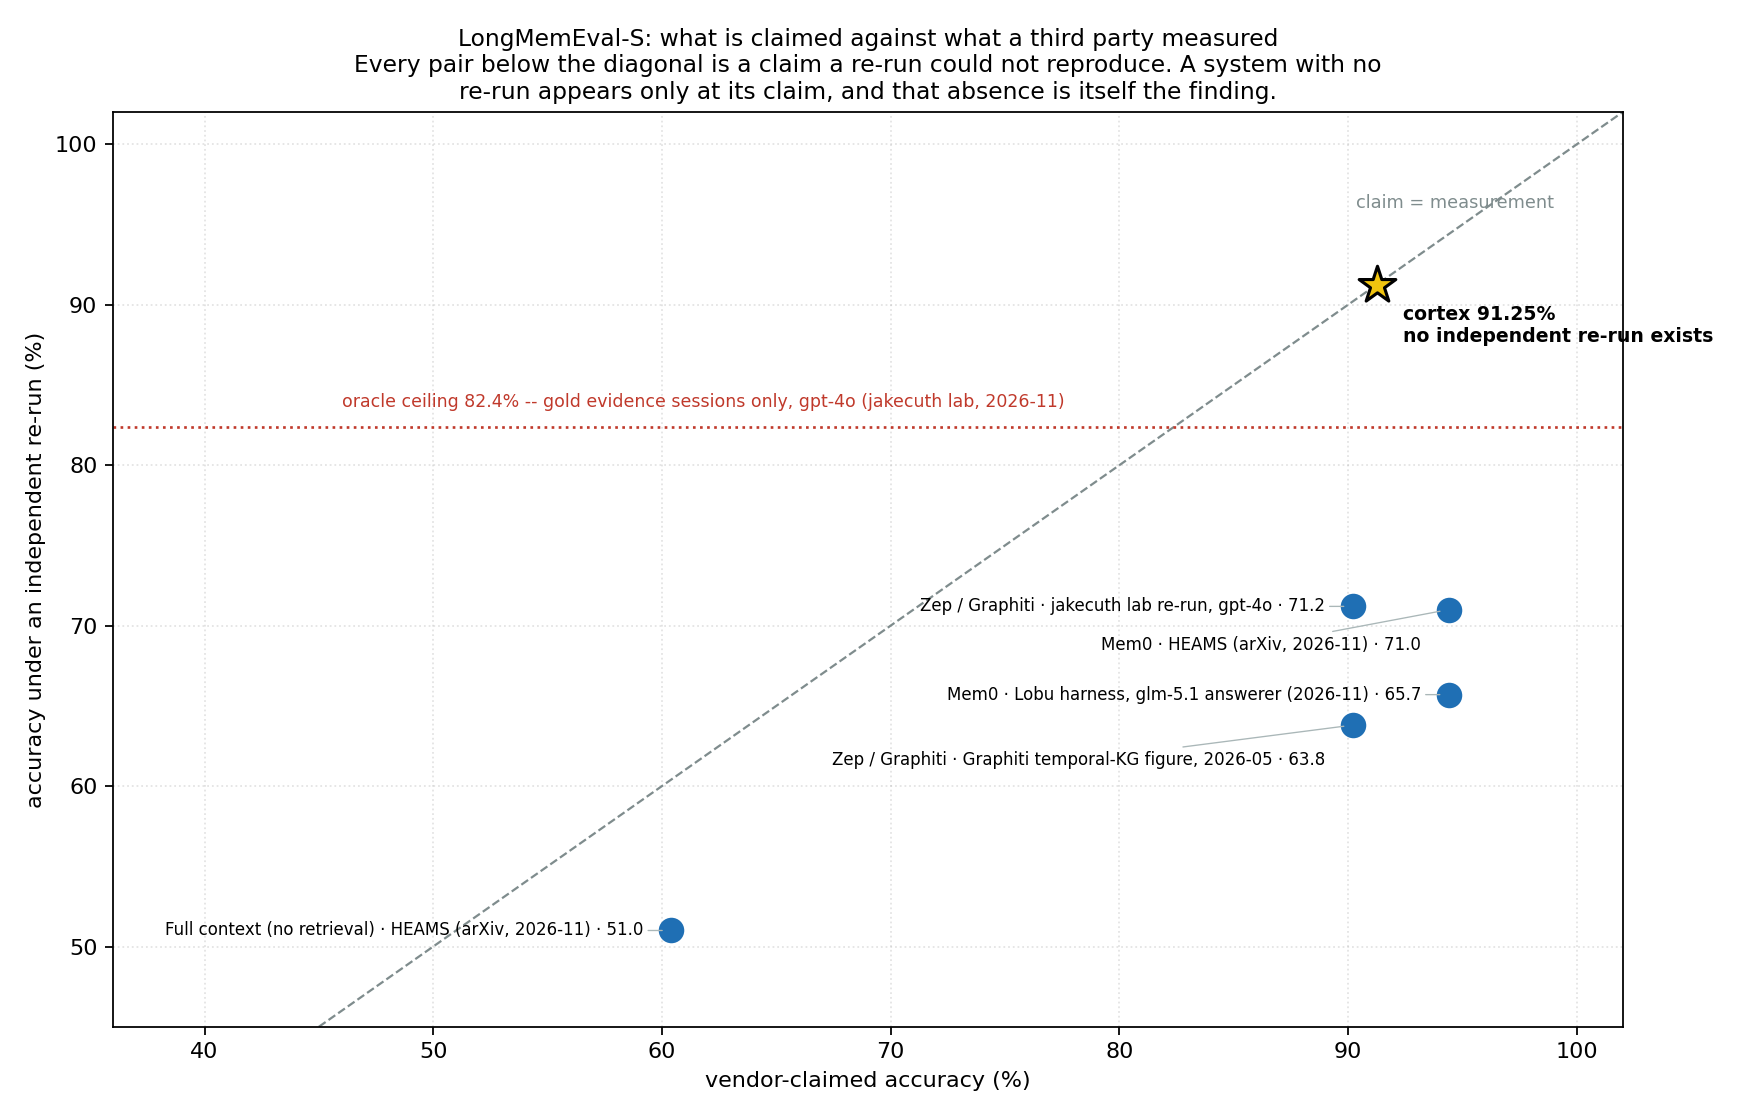
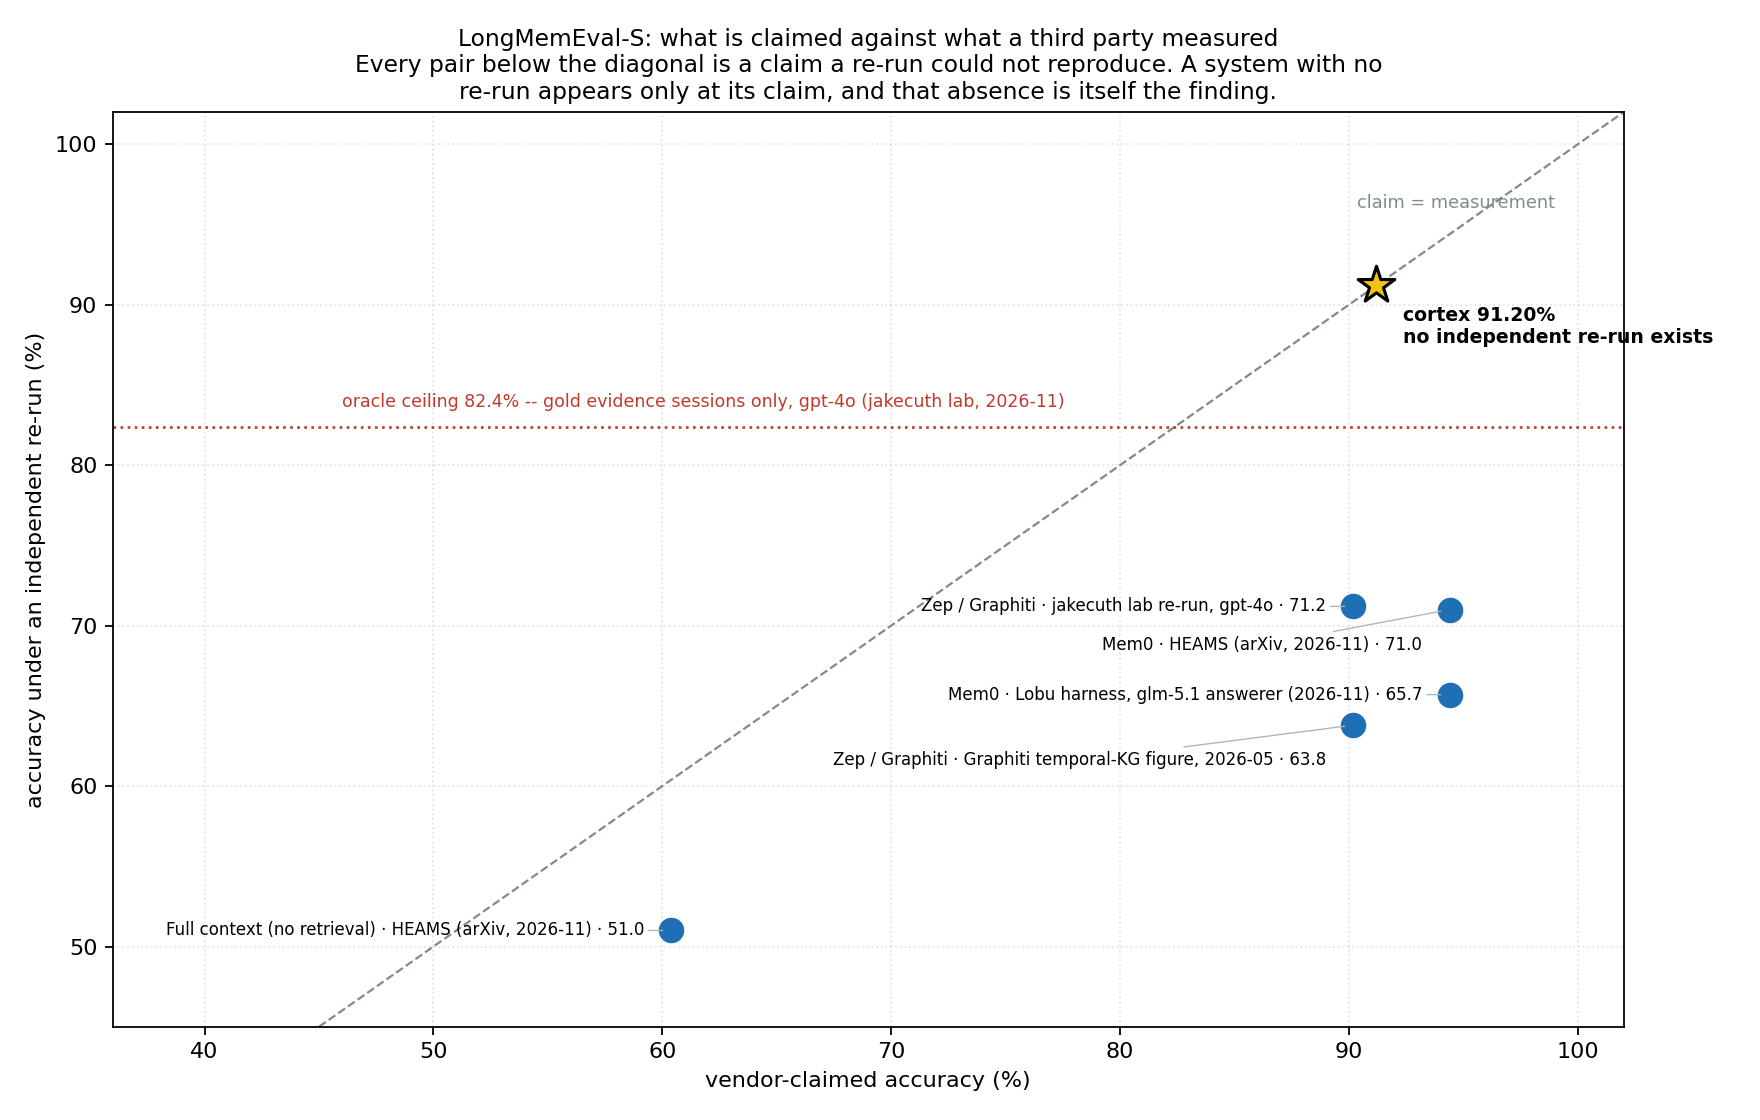
Plot the gap after the judge is held fixed, and correct the coordinate that used four passes
`landscape.json` carried cortex at 91.25%, which is `costEfficiency.accuracy` -- 1,825 correct verdicts
over 2,000 (four passes) -- beside competitor rows that are all one pass over 500 questions. The
coordinate is now `feature.metrics.correct` 456/500 = 91.2%, and the note says which field is which and
why the other one is not comparable. The Synap row gains the re-graded reading in its `source`: 479/500
= 95.80% under this repository's judge, +0.20 points against the published 95.60%, p = 1.0000.

Four figures are re-rendered from the corrected coordinates, and one is new. `fig-longmemeval-same-ruler.png`
puts the re-graded point beside the published one and, on the right, decomposes the gap by what each
reading holds fixed: the ruler reading moves the judge on fixed answers (+0.20, p = 1.0000) and the system
reading moves the answers under one judge (-4.60, p = 0.0018), while the old headline fixed neither and
could not attribute its own -4.40.

The renderer is committed for the reason `plot-landscape.py` states: a number whose derivation lives in a
session cannot be re-derived by its reader.

diff --git a/docs/figures/plot-same-ruler.py b/docs/figures/plot-same-ruler.py
@@ -1,0 +1,165 @@
+#!/usr/bin/env python3
+"""Draw the same-ruler reading: what is left of the gap after the judge is held fixed.
+
+## Why this figure exists beside `fig-longmemeval-accuracy-vs-cost.png`
+
+That figure plots every row on its own published coordinates, which is the right way to show the
+landscape and the wrong way to read one gap: two points on it can differ by their answer model, their
+judge, their corpus subset, or their cost basis, and the plot cannot say which.
+
+This one adds the row that was measured (§172): the competitor's own answers re-graded by this
+repository's judge. `ruler` holds the answers fixed and moves the judge (+0.20 points, p = 1.0000), so
+the instrument is ruled out; `system` holds the judge fixed and moves the answers (-4.60 points,
+p = 0.0018), and that is the reading the figure is about.
+
+Every coordinate comes from `landscape.json` -- the competitor rows are their own published figures,
+with a source per row -- and the two re-graded numbers come from `landscape.json`'s Synap `source`
+string, which carries the dispatch that produced them.
+
+Usage:
+    python3 docs/figures/plot-same-ruler.py
+"""
+
+from __future__ import annotations
+
+import json
+from pathlib import Path
+
+import matplotlib
+
+matplotlib.use('Agg')
+
+import matplotlib.pyplot as plt  # noqa: E402
+from matplotlib.lines import Line2D  # noqa: E402
+
+HERE = Path(__file__).resolve().parent
+LANDSCAPE = HERE / 'landscape.json'
+OUT = HERE / 'fig-longmemeval-same-ruler.png'
+
+#: The three readings from the pre-registered re-grade (section 10.2 of the pre-registration).
+READINGS = [
+    ('ruler\n(their answers,\ntwo judges)', 0.20, 1.0000, 'same answers'),
+    ('system\n(our judge,\ntwo answer sets)', -4.60, 0.0018, 'same judge'),
+    ('reference\n(the old headline)', -4.40, 0.0026, 'neither'),
+]
+
+TYPE_COLOUR = {'open-source': '#1f77b4', 'closed-cloud': '#d62728', 'closed': '#d62728'}
+
+
+def main() -> int:
+    landscape = json.loads(LANDSCAPE.read_text())
+    rows = [row for row in landscape['overall'] if row.get('tokensPerQuery')]
+
+    fig, (left, right) = plt.subplots(
+        1, 2, figsize=(15.5, 7.2), gridspec_kw={'width_ratios': [2.05, 1]}
+    )
+
+    # ---- left: accuracy against published cost, with the re-graded point beside the published one
+    for row in rows:
+        colour = TYPE_COLOUR.get(row.get('type', ''), '#555555')
+        marker = 'o' if row.get('type') == 'open-source' else 's'
+        left.scatter(
+            row['tokensPerQuery'], row['accuracy'], s=95, marker=marker,
+            facecolor=colour, edgecolor='white', linewidth=0.9, zorder=3,
+        )
+        # The competitor whose point is re-graded has two labels to fit in one place, so its published
+        # label goes left and the measured one goes below; every other label keeps the default corner.
+        left_side = row['system'] in ('Maximem Synap', 'Mem0 (managed)', 'Mem0')
+        anchor = (-14, 6) if left_side else (6, 6)
+        left.annotate(
+            f"{row['system']}\n{row['accuracy']:.1f}% @ {row['tokensPerQuery'] / 1000:.1f}K",
+            xy=(row['tokensPerQuery'], row['accuracy']), xytext=anchor,
+            textcoords='offset points', fontsize=7.2, color='#333333',
+            ha='right' if left_side else 'left',
+        )
+
+    cortex = next(row for row in rows if row['system'] == 'cortex')
+    synap = next(row for row in rows if row['system'] == 'Maximem Synap')
+    regraded = 95.80
+
+    # The measured point: same answers, this repository's judge. Open circle, dashed link.
+    left.scatter(
+        synap['tokensPerQuery'], regraded, s=150, marker='o', facecolor='none',
+        edgecolor='#d62728', linewidth=2.0, zorder=4,
+    )
+    left.annotate(
+        f"Synap re-graded\n{regraded:.2f}% (same ruler)", xy=(synap['tokensPerQuery'], regraded),
+        xytext=(10, -34), textcoords='offset points', fontsize=7.6, color='#d62728', weight='bold',
+    )
+    left.plot(
+        [synap['tokensPerQuery'], synap['tokensPerQuery']], [synap['accuracy'], regraded],
+        linestyle=':', color='#d62728', linewidth=1.2, zorder=2,
+    )
+
+    # The gap that survives one ruler, drawn between the two measured points.
+    left.annotate(
+        '', xy=(synap['tokensPerQuery'], regraded),
+        xytext=(cortex['tokensPerQuery'], cortex['accuracy']),
+        arrowprops=dict(arrowstyle='<->', color='#444444', linewidth=1.4, shrinkA=6, shrinkB=6),
+    )
+    left.annotate(
+        '−4.60 pts\np = 0.0018\n(one judge, 500 paired)',
+        xy=(cortex['tokensPerQuery'] * 0.42, cortex['accuracy'] - 1.9),
+        fontsize=8.2, color='#444444', ha='left', va='center', weight='bold',
+    )
+
+    left.set_xscale('log')
+    left.set_xlabel('published tokens per question (log scale; vendors count different things)')
+    left.set_ylabel('LongMemEval-S accuracy (%)')
+    left.set_title(
+        'Accuracy against cost, with the one point this repository re-graded', fontsize=11, weight='bold'
+    )
+    left.grid(alpha=0.25, linewidth=0.6)
+    left.legend(
+        handles=[
+            Line2D([], [], marker='o', linestyle='', markerfacecolor='#1f77b4', markeredgecolor='white', label='open source / self-hosted'),
+            Line2D([], [], marker='s', linestyle='', markerfacecolor='#d62728', markeredgecolor='white', label='closed / hosted'),
+            Line2D([], [], marker='o', linestyle='', markerfacecolor='none', markeredgecolor='#d62728', markeredgewidth=2, label='competitor answers, our judge'),
+        ],
+        loc='lower right', fontsize=7.6, framealpha=0.92,
+    )
+
+    # ---- right: what the gap decomposes into
+    labels = [name for name, _, _, _ in READINGS]
+    deltas = [delta for _, delta, _, _ in READINGS]
+    colours = ['#2ca02c' if abs(d) < 1 else '#d62728' for d in deltas]
+    bars = right.barh(labels, deltas, color=colours, alpha=0.85, height=0.55, zorder=3)
+    right.axvline(0, color='#333333', linewidth=1.1, zorder=4)
+    for bar, (_, delta, p, _fixed) in zip(bars, READINGS):
+        # Inside the bar when it is long enough to hold the text, outside it when it is not. Putting
+        # every label on the same side made the short bar's text overlap the axis label.
+        inside = abs(delta) > 2.4
+        right.text(
+            (delta / 2) if inside else delta - 0.22,
+            bar.get_y() + bar.get_height() / 2,
+            f"{delta:+.2f} pts\np = {p:.4f}",
+            va='center', ha='center' if inside else 'right',
+            fontsize=9.0, weight='bold',
+            color='white' if inside else '#333333',
+        )
+    right.set_xlim(-7.6, 4.2)
+    right.set_xlabel('cortex minus competitor (accuracy points)')
+    right.set_title('Three ways of holding something fixed', fontsize=11, weight='bold')
+    right.grid(axis='x', alpha=0.25, linewidth=0.6, zorder=0)
+    right.invert_yaxis()
+
+    fig.suptitle(
+        'Maximem Synap leads by 4.60 points under one ruler — the judge was not the difference',
+        fontsize=13, weight='bold', y=0.98,
+    )
+    fig.text(
+        0.5, 0.012,
+        'Competitor coordinates are their own published figures (landscape.json, one source per row); only the '
+        'cortex row and the open circle are measured here.\n'
+        'The re-grade put the competitor\'s 500 answers through this repository\'s judge: 479/500 = 95.80% '
+        'against their published 478/500 = 95.60%.',
+        ha='center', fontsize=7.4, color='#555555',
+    )
+    fig.tight_layout(rect=(0, 0.035, 1, 0.955))
+    fig.savefig(OUT, dpi=160)
+    print(f'wrote {OUT}')
+    return 0
+
+
+if __name__ == '__main__':
+    raise SystemExit(main())

diff --git a/docs/figures/README.md b/docs/figures/README.md
@@ -37,6 +37,7 @@ document that discusses it says so in words.
 | `fig-longmemeval-accuracy-ranking.png` | accuracy, grouped by answering reader | the same memory system spans 90.2 to 98.4 as the reader changes |
 | `fig-longmemeval-cost-per-query.png` | tokens per query | "most accurate" and "cheapest" are different winners, and cortex is neither |
 | `fig-longmemeval-room-axis.png` | room (characters) × `MR` accuracy, and room × prompt tokens per question | the room axis of the registered arm: 16 short questions become 1, accuracy moves 0.4 points, tokens move 21% |
+| `fig-longmemeval-same-ruler.png` | left: tokens per query (log) × accuracy, with the re-graded point beside its published one; right: the gap decomposed by what each reading holds fixed | **the gap after the judge is held fixed**: their 500 answers under this repository's judge read 95.80% against their published 95.60% (`p = 1.0000`), so the instrument is not the difference and the remaining −4.60 points (`p = 0.0018`) is. Drawn from `landscape.json` plus the dispatch in `PREREGISTRATION-COMPETITOR-REGRADE.md` §10 |
 | `fig-longmemeval-matched-model.png` | prompt tokens the system caused to be read (log) × accuracy | the three competitors as **this repository** measured them: one model for the system and the reader, one judge, one sample. Drawn from `matched-model.json`, whose rows carry `n` — two of them are n=2 |
 
 ## Three rules the renderer follows, and the defects behind them
